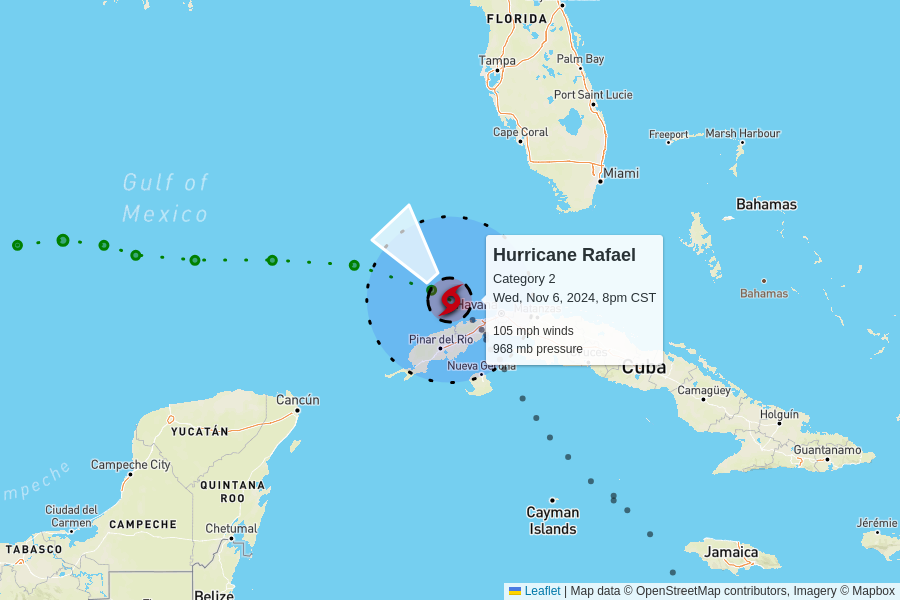
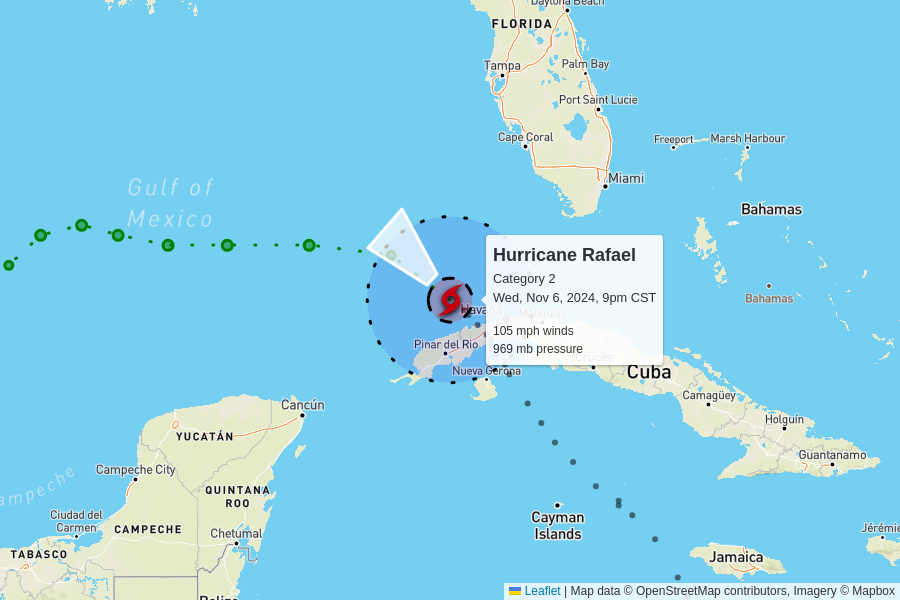
automatic update

diff --git a/docs/index.html b/docs/index.html
@@ -102,7 +102,7 @@
         <td colspan="6" class="storm category-2" >
           <h2>
             Hurricane Rafael - Category 2
-            <p class="updated">last updated <span data-time>2024-11-07T02:00:00.000Z</span></p>
+            <p class="updated">last updated <span data-time>2024-11-07T03:00:00.000Z</span></p>
           </h2>
         </td>
       </tr>
@@ -118,11 +118,11 @@
       <tr>
         <td class="spacer"></td>
         <td>105 mph<br>0 mph since last update</td>
-        <td>968 mb<br>0 mb since last update</td>
+        <td>969 mb<br>+1 mb since last update</td>
         <td>
-          14 mph to the northwest
+          13 mph to the northwest
           <br/>
-          <span style="display: inline-block; font-size: 1.5em; transform: rotate(320deg);">↑</span>
+          <span style="display: inline-block; font-size: 1.5em; transform: rotate(315deg);">↑</span>
         </td>
         <td><a href="https://raw.githubusercontent.com/mgwalker/atlantic-hurricanes/main/data/csv/AL182024.csv">AL182024.csv</a></td>
         <td><a href="https://www.nhc.noaa.gov/archive/2024/RAFAEL.shtml?">NHC advisories</a></td>
